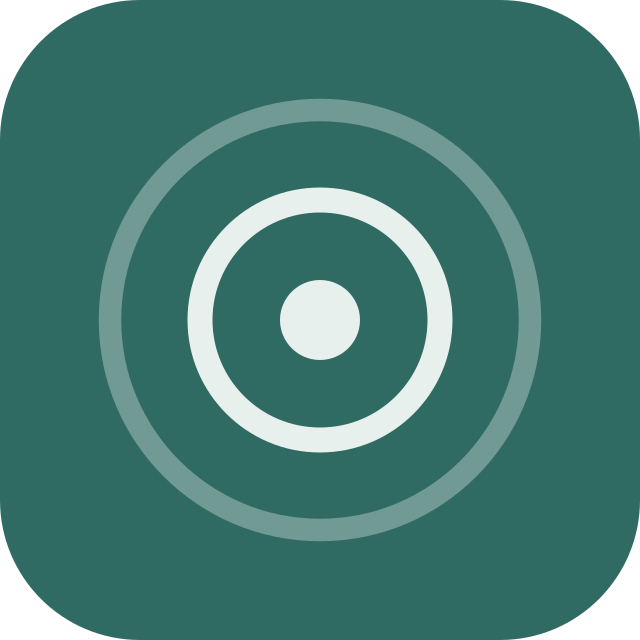
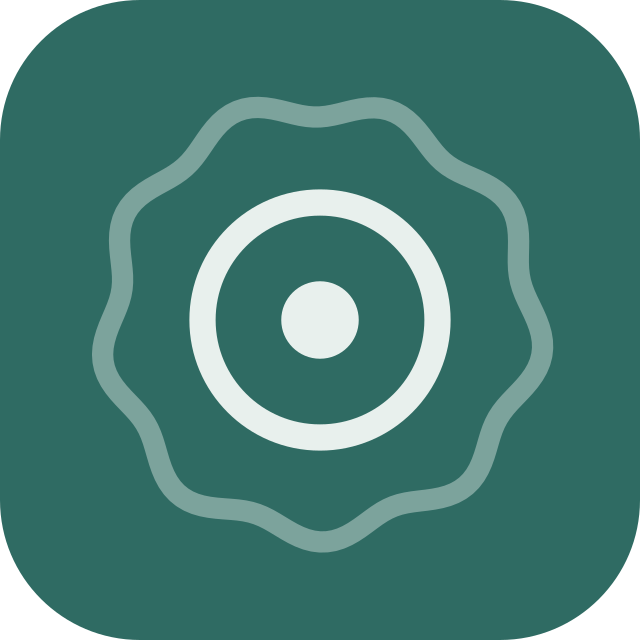
Soften the outer ring into a wavy field of focus
The largest ring is slightly uneven; the inner ring and point stay sharp, so the mark reads as clarity gathering toward the center.

diff --git a/src/components/practice-icons.tsx b/src/components/practice-icons.tsx
@@ -216,9 +216,12 @@ export function IconStar({
 export function IconBrand(props: IconProps) {
   return (
     <BaseIcon {...props}>
-      <circle cx="12" cy="12" r="8.2" opacity={0.35} />
-      <circle cx="12" cy="12" r="4.2" opacity={0.55} />
-      <circle cx="12" cy="12" r="1.6" fill="currentColor" stroke="none" />
+      <path
+        d="M20.47 12.00 L20.64 12.45 L20.73 12.92 L20.70 13.38 L20.56 13.82 L20.31 14.23 L20.00 14.60 L19.66 14.94 L19.34 15.27 L19.06 15.60 L18.85 15.95 L18.69 16.34 L18.56 16.77 L18.44 17.22 L18.29 17.66 L18.08 18.08 L17.79 18.43 L17.42 18.70 L17.00 18.88 L16.53 18.98 L16.06 19.04 L15.61 19.08 L15.18 19.15 L14.79 19.27 L14.43 19.47 L14.07 19.72 L13.70 20.01 L13.31 20.29 L12.90 20.52 L12.45 20.66 L12.00 20.70 L11.55 20.62 L11.11 20.44 L10.70 20.21 L10.31 19.96 L9.93 19.73 L9.54 19.56 L9.14 19.45 L8.71 19.40 L8.24 19.37 L7.76 19.34 L7.29 19.26 L6.84 19.10 L6.46 18.85 L6.15 18.50 L5.91 18.09 L5.75 17.63 L5.62 17.17 L5.50 16.72 L5.35 16.32 L5.15 15.95 L4.90 15.62 L4.59 15.30 L4.26 14.97 L3.95 14.62 L3.70 14.23 L3.54 13.80 L3.49 13.35 L3.54 12.89 L3.69 12.44 L3.87 12.00 L4.06 11.58 L4.22 11.18 L4.30 10.78 L4.32 10.37 L4.28 9.93 L4.21 9.47 L4.17 8.99 L4.17 8.52 L4.27 8.06 L4.47 7.65 L4.76 7.30 L5.13 7.01 L5.54 6.77 L5.96 6.56 L6.34 6.34 L6.68 6.09 L6.98 5.80 L7.24 5.45 L7.49 5.06 L7.76 4.66 L8.07 4.29 L8.43 3.98 L8.84 3.78 L9.30 3.68 L9.77 3.69 L10.25 3.77 L10.72 3.89 L11.16 4.01 L11.59 4.09 L12.00 4.10 L12.42 4.04 L12.85 3.93 L13.30 3.81 L13.76 3.72 L14.23 3.70 L14.67 3.77 L15.09 3.95 L15.46 4.23 L15.78 4.58 L16.06 4.96 L16.33 5.34 L16.60 5.67 L16.90 5.94 L17.25 6.17 L17.65 6.35 L18.08 6.52 L18.52 6.72 L18.93 6.96 L19.28 7.28 L19.53 7.65 L19.69 8.08 L19.75 8.55 L19.76 9.02 L19.74 9.49 L19.73 9.93 L19.77 10.35 L19.88 10.75 L20.05 11.15 L20.26 11.57 Z"
+        opacity={0.38}
+      />
+      <circle cx="12" cy="12" r="4.15" />
+      <circle cx="12" cy="12" r="1.55" fill="currentColor" stroke="none" />
     </BaseIcon>
   );
 }

diff --git a/brand/BRAND.md b/brand/BRAND.md
@@ -1,6 +1,6 @@
 # Брендбук: Точка ясности
 
-Знак — **точка в двух кольцах**. Не вспышка, не диагноз, не оценка. Место, куда можно вернуться.
+Знак — **точка в двух кольцах**. Внешнее кольцо слегка волнистое (шум дня). Внутреннее — ровное. Точка в центре — ясность. Не вспышка, не диагноз, не оценка.
 
 Мастер-файл, который копируют: [`svg/mark.svg`](svg/mark.svg).
 
@@ -8,9 +8,9 @@
 
 | Слой | Что значит |
 |------|------------|
-| Внешнее кольцо | Шум дня, мягкая граница |
-| Внутреннее кольцо | Внимание, «я здесь» |
-| Точка | Ясность: маленькая, устойчивая, без давления |
+| Внешнее кольцо (волнистое) | Живой, неровный фон дня. Ещё без фокуса |
+| Внутреннее кольцо (ровное) | Внимание собирается, контур становится яснее |
+| Точка | Цель в центре: маленькая, устойчивая, без давления |
 
 Не используем мозг, сердце, лотос, галочку, щит и буквы «ТЯ» в аватарке.
 
